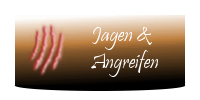
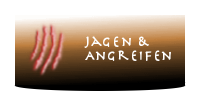
Menüanpassung
Am besten wäre es noch, wenn sich das Menü auch skalieren ließe wie das
Hintergrundbild.

Changed region(s): [[0.42, 0.27, 0.87, 0.78], [0.45, 0.63, 0.48, 0.69]]

diff --git a/DrachenVonGaja/index.css b/DrachenVonGaja/index.css
@@ -2,9 +2,9 @@
 body{
     margin:auto;
     min-height:30%;
-	font-family:Lucida Calligraphy,Georgia,fantasy,EG Dragon Caps;
-	font-size:smaller;
-	color:white;
+    font-family:Lucida Calligraphy,Georgia,fantasy,EG Dragon Caps;
+    font-size:smaller;
+    color:white;
 }
 
 input[type=submit]{
@@ -13,7 +13,7 @@ input[type=submit]{
     background-color:black;
     line-height:normal;
     font-family:Lucida Calligraphy,Georgia,fantasy,EG Dragon Caps;
-	font-size:smaller;
+    font-size:smaller;
     height: 20px;
 }
 
@@ -72,17 +72,17 @@ input[type=button]{
 }
 #obere_Leiste{
     position:absolute;
-    top:10px;
+    top:0px;
     left:0px;
     right:0px;
-    height:25px;
+    height:30px;
     width:100%;
     background-color:darkgrey;
     z-index: 1;
 }
 #mitte{
     position:absolute;
-    top:0px;
+    top:30px;
     left:0%;
     right:0%;
     /*height:600px;*/
@@ -111,8 +111,8 @@ input[type=button]{
     width:20%;
 }
 #mitte_zentral{
-	position:absolute;
-    top:0px;
+    position:absolute;
+    top:20px;
     left:20%;
     right:20%;
     height:100%;
@@ -167,18 +167,46 @@ input[type=button]{
 #charakter{
     position:absolute;
     left:20px;
-    top:15px;
+    top:100px;
     /*width:200px;*/
 	z-index: 1;
 }
-#spielmenü{
+#spielmenü
+{
 	position:absolute;
-	left:20px;
-	top:40%;
+        top:-20px;
+        left:-2%;
 }
+#me1
+{
+    position:absolute;
+}
+#me2
+{
+    position:absolute;
+    left:180px;*
+}
+#me3
+{
+    position:absolute;
+    left:360px;
+}
+#me4
+{
+    position:absolute;
+    left:540px;
+}
+#me5
+{
+    position:absolute;
+    left:720px;
+}
+
+
+
 #aktionenrahmen{
 	position:absolute;
-	bottom:25px;
+	top:450px;
 	left:20px;
 	/*width:200px;*/
 }

diff --git a/DrachenVonGaja/Inc/drachenvongaja.php b/DrachenVonGaja/Inc/drachenvongaja.php
@@ -362,12 +362,19 @@
 							}
 						}
 						?>
+						
+						<!-- Anzeige des Spielmenüs -->
+					<div id="spielmenü">
+						
+							<div id="me1" style="background:url(./../Bilder/feuerbutton.png); background-repeat:no-repeat;"><input type="submit" style="height:100px; width:200px; opacity: 0.0;" name="button_feuer" value="Feuer Speien"></div>
+							<div id="me2" style="background:url(./../Bilder/flugbutton.png); background-repeat:no-repeat;"><input type="submit" style="height:100px; width:200px; opacity: 0.0;" name="button_fliegen" value="Fliegen"></div>
+							<div id="me3" style="background:url(./../Bilder/erkundenbutton.png); background-repeat:no-repeat;"><input type="submit" style="height:100px; width:200px; opacity: 0.0;" name="button_gebiet_erkunden" value="Gebiet erkunden"></div>
+							<div id="me4" style="background:url(./../Bilder/gepäckbutton.png); background-repeat:no-repeat;"><input type="submit" style="height:100px; width:200px; opacity: 0.0;" name="button_inventar" value="Gepäck betrachten"></div>
+							<div id="me5" style="background:url(./../Bilder/elementbutton.png); background-repeat:no-repeat;"><input type="submit" style="height:100px; width:200px; opacity: 0.0;" name="button_elemente" value="Elemente beschw&ouml;ren"></div>
+							
+					</div>
 					</div>
 					
-					<!-- Anzeige für Fähigkeiten -->
-					<div id="elemente">
-						<img src="../Bilder/Erdzauber.svg" alt="Elemente" width="200%" />
-					</div>
 					
 				</div>
 				
@@ -462,26 +469,7 @@
 						</table>
 					</div>
 					
-					<!-- Anzeige des Spielmenüs -->
-					<div id="spielmenü">
-						<table>
-							<tr>
-								<td><img src="../Bilder/feuerbutton.png" alt="feuerbutton" width="100%"/></td>
-							</tr>
-							<tr>
-								<td><img src="../Bilder/flugbutton.png" alt="flugbutton" width="100%"/></td>
-							</tr>
-							<tr>
-								<td><input type="submit" name="button_gebiet_erkunden" value="Gebiet erkunden"></td>
-							</tr>
-							<tr>
-								<td><input type="submit" name="button_inventar" value="Gepäck betrachten"></td>
-							</tr>
-							<tr>
-								<td><a href="javascript:Elemente()" >Elemente</a></td>
-							</tr>
-						</table>
-					</div>
+					
 									
 					<!-- Anzeige für laufende Aktionen (Clientzeit, Animation, Ladebalken) -->
 					<div id="aktionenrahmen">

diff --git a/DrachenVonGaja/Inc/funktionen.php b/DrachenVonGaja/Inc/funktionen.php
@@ -69,7 +69,7 @@ function zeige_hintergrundbild($gebiet_id)
 {
 	?>
 	<p align="center" style="margin-top:75px; margin-bottom:0px; font-size:14pt;">
-		<img src="<?php echo get_bild_zu_gebiet($gebiet_id) ?>" width="100%" height="60%" alt=""/><br>
+		<img src="<?php echo get_bild_zu_gebiet($gebiet_id) ?>" width="100%" height="60%" alt=""/><br><br>
 		<?php echo get_gebiet($gebiet_id)[3]; ?>
 	</p> 
 	<?php
